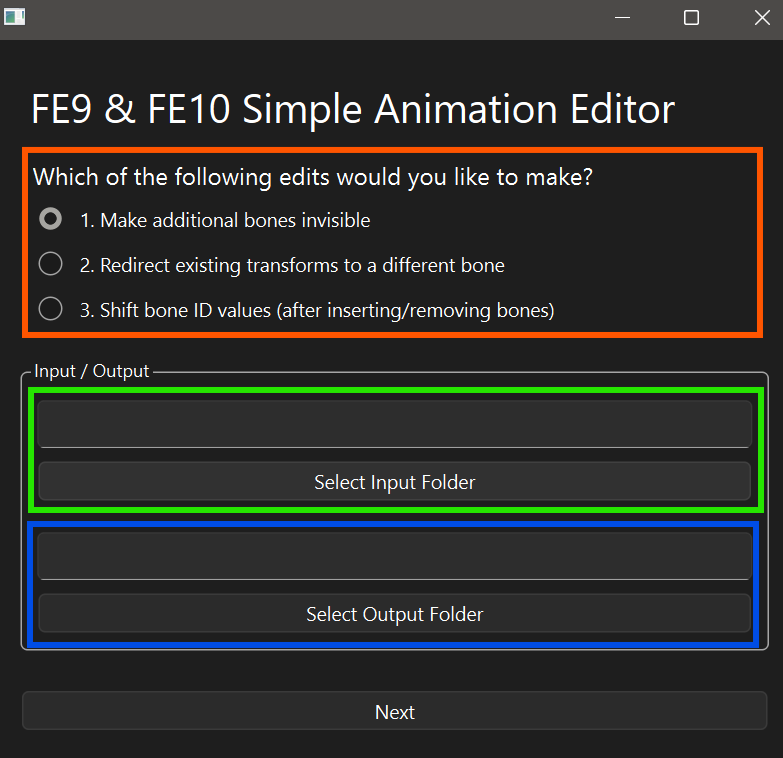
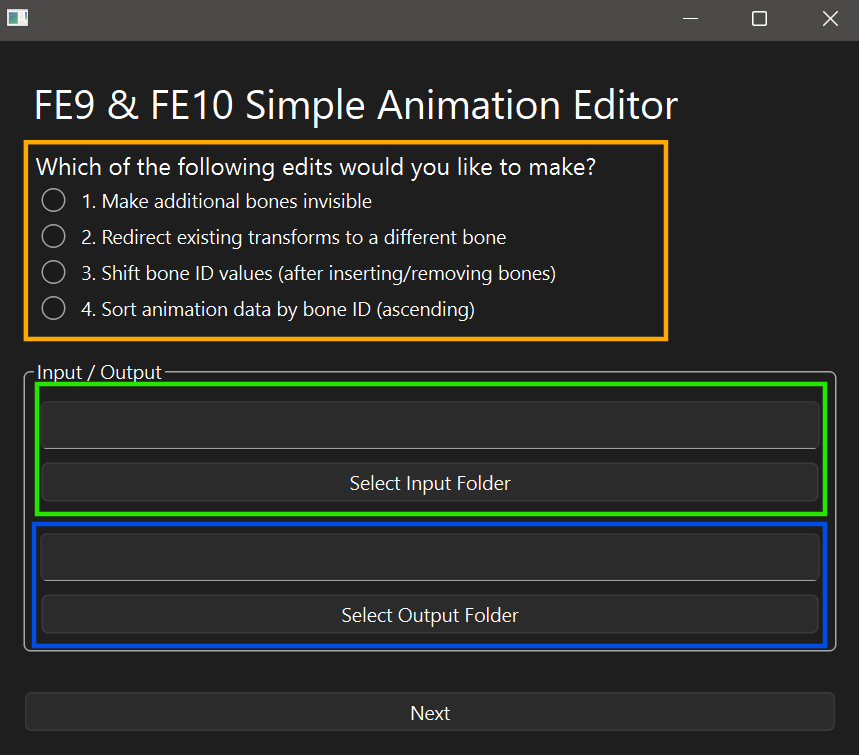
Add tooling and guides to support making weapons invisible through animations
- Add code to ga-simple-edits.py to allow for sorting animation data option.
- Add code to ga-simple-edits.py to handle conflicting bone transforms.
- Add guide for making weapons invisible using animation transforms and supporting images.
- Add .test/ folder to .gitignore

diff --git a/tools/animation/ga_simple_edits/ga_simple_edits.py b/tools/animation/ga_simple_edits/ga_simple_edits.py
@@ -68,7 +68,7 @@ class MainWindow(QMainWindow):
         self.button_3_run.clicked.connect(lambda: run_3_shift(self))
 
         # Radio buttons
-        self.radio_4.toggled.connect(lambda: select_4(self))
+        self.radio_4.toggled.connect(lambda: toggle_4(self))
 
 
 def goto_next(self):
@@ -160,8 +160,8 @@ def goto_0(self):
     clean_pack(self)
 
 
-def select_4(self):
-    print("Running select_4(self) ...")
+def toggle_4(self):
+    print("Running toggle_4(self) ...")
     if self.radio_4.isChecked():
         self.lineEdit_0_output.setEnabled(False)
         self.button_0_output.setEnabled(False)
@@ -169,7 +169,7 @@ def select_4(self):
         self.button_0_output.setText(
             "Output will overwrite input for this edit"
             )
-        self.button_0_next.setText("Run Organize Edit")
+        self.button_0_next.setText("Run Sorting Edit")
         self.lineEdit_0_input.setToolTip(
             "Choose an input .ga file or a folder containing .ga files"
             )
@@ -518,9 +518,54 @@ def edit_invis(ga_file, data_dict: dict, misc_dict: dict, bone_ids: list):
             next_frame_start = bytes.fromhex(
                 hex(next_frame_start_int)[2:].zfill(8)
                 )
+    '''Modify Existing Data if Bone ID already in Table'''
+    table_data = data_dict['table_data']
+    bone_count = int(len(table_data)/16)
+    # print(f'bone_count: {bone_count}')
+    # bone_table_ptr = struct.unpack_from('>I', data, 0x20)[0]
+    # channel_data_ptr = struct.unpack_from('>I', data, 0x24)[0]
+    # fcurve_data_ptr = struct.unpack_from('>I', data, 0x2C)[0]
+
+    # --- Parse bone table ---
+    row_data = []
+    table_bones = []
+    for row in range(bone_count):
+        offset = row*16
+        data = list(struct.unpack_from('>IIII', table_data, offset))
+        bone_id, channel_mask, channel_start, channel_count = data
+        row_data.append(data)
+        table_bones.append(bone_id)
+        # print(f'data: {data}')
+
+    # for bone in bone_ids:
+    #     bone = int(bone, 16)
+    #     if bone in table_bones:
+    #         row = table_bones.index(bone)
+    #         row_data[row][0] = 255
+    #         print(f'bone ID {bone} in table at row {row}')
+    #         print(f'row_data[{row}]: {row_data[row]}')
+
+    table_data = bytearray(len(table_data))
+    for row, data in enumerate(row_data):
+        offset = row*16
+        bone_id, channel_mask, channel_start, channel_count = data
+        struct.pack_into('>IIII',
+                         table_data,
+                         offset,
+                         bone_id,
+                         channel_mask,
+                         channel_start,
+                         channel_count
+                         )
+
+    # for data in row_data:
+    #     for value in data:
+    #         table_data.append(value)
+    # table_data = bytearray(table_data)
+    print(f'table_data_size: {len(table_data+invis_table_bytes)} bytes')
 
     '''Update Pointers & File Info'''
-    table_data = data_dict['table_data']
+    # table_data = data_dict['table_data']
     # unused_table_data = data_dict['unused_table_data']
     meta_data = data_dict['meta_data']
     frame_data = data_dict['frame_data']
@@ -551,6 +596,7 @@ def edit_invis(ga_file, data_dict: dict, misc_dict: dict, bone_ids: list):
     file_info[44:48] = frame_ptr
 
     data_dict['file_info'] = file_info
+    data_dict['table_data'] = table_data
     data_dict['invis_table_bytes'] = invis_table_bytes
     data_dict['invis_meta_bytes'] = invis_meta_bytes
     data_dict['invis_frame_bytes'] = invis_frame_bytes
@@ -1049,11 +1095,14 @@ def clean_pack(self):
     input_dir, output_dir, input_pack, output_pack, input_file = list(
         directory_dict.values()
         )
-
-    if not any(input_pack.iterdir()):
+    if input_pack.exists() and not any(input_pack.iterdir()):
         input_pack.rmdir()
-    if not any(output_pack.iterdir()):
+    if output_pack.exists() and not any(output_pack.iterdir()):
         output_pack.rmdir()
+    # if not any(input_pack.iterdir()):
+    #     input_pack.rmdir()
+    # if not any(output_pack.iterdir()):
+    #     output_pack.rmdir()
 
 
 def show_help():
@@ -1062,6 +1111,7 @@ def show_help():
     print("\t1. Make additional bones invisible.")
     print("\t2. Replace the bone in an existing transformation")
     print("\t3. Fix bone IDs after adding/deleting skeleton bones.")
+    print("\t4. Sort animation data by ascending bone ID.")
     print()
 
 

diff --git a/docs/animation-weapon-visibility-edits.md b/docs/animation-weapon-visibility-edits.md
@@ -7,8 +7,8 @@ Basic animation (in)visibility editing using hex editing, Blender, or Tellius Fo
 
 <p>
 <b>Author:</b> Jade (ltra043)<br>
-<b>Date:</b> 2026-06-05<br>
-<b>Version:</b> <code>Tellius Forge v0.1.0</code><br>
+<b>Date:</b> 2026-06-12<br>
+<b>Version:</b> <code>Tellius Forge v0.2.0</code><br>
 </p>
 
 
@@ -29,7 +29,7 @@ Basic animation (in)visibility editing using hex editing, Blender, or Tellius Fo
 <summary>Resources & Requirements</summary>
 
 1. [Tellius Forge](https://github.com/ltra043/tellius-forge/releases/latest) (Blender Addon & Toolkit)
-   - Non-Windows users may need to download and use the source code and assets at [ga-simple-edits/](../tools/animation/ga-simple-edits/)
+   - Non-Windows users may need to download and use the source code and assets at [ga_simple_edits/](../tools/animation/ga_simple_edits/)
 2. [Lumina](https://github.com/thane98/lumina) by thane98
 3. [ImHex](https://imhex.werwolv.net/) or any hex editor
    - Only needed if you choose to hex edit animations
@@ -38,7 +38,7 @@ Basic animation (in)visibility editing using hex editing, Blender, or Tellius Fo
 
 Optional / Recommended:
 1. Programmer Calculator or any hex calculator
-2. [Skeleton Analyzer](../tools/skeleton/g-skeleton-analyzer/g-skeleton-analyzer.py): Summarizes skeleton data, including provision of a table of bone IDs and bone names.
+2. [Skeleton Analyzer](../tools/skeleton/g-skeleton-analyzer/g_skeleton_analyzer.py): Summarizes skeleton data, including provision of a table of bone IDs and bone names.
 3. [Body & Skeleton Workflow](./body-skeleton-workflow.md)
 3. [Youtube Tutorial Playlist](https://youtube.com/playlist?list=PL650N9tNdfYazuxS5b63BzaUKxZLErT0e)
 4. [Tellius Animation File Format](../research/animation/tellius-animation-file-format.md)
@@ -67,7 +67,7 @@ This includes:
 
 ### About Scale Transforms
 
-Tellius animations do not contain a dedicated visibility track. Weapon visibility is controlled by bone scale. Setting a weapon bone's scale to 0 makes the associated mesh invisible; setting scale back to 1 restores normal visibility (and size).
+Tellius animations do not always contain a dedicated visibility track. Instead, visibility is often controlled by bone scale. Setting a bone's scale to 0 makes the associated mesh invisible; setting scale back to 1 restores normal visibility (and size).
 
 Although this guide focuses on weapon visibility, the same techniques can be used to add or modify scale animation data for any bone.
 
@@ -144,8 +144,8 @@ All mentioned downloads and reference materials are linked in [Resources & Requi
 ### 2.1 Download & Install
 
 1. Download the *latest release of Tellius Forge*.
-   - Non-Windows users may need to download the source code and assets at `tools/animation/ga-simple-edits/`
-   - `ga-simple-edits.exe` and `ga-simple-edits.py` are considered equivalent programs. Swap out mention of the `.exe` for `.py` in instructions if using the script. 
+   - Non-Windows users may need to download the source code and assets at `tools/animation/ga_simple_edits/`
+   - `ga-simple-edits.exe` and `ga_simple_edits.py` are considered equivalent programs. Swap out mention of the `.exe` for `.py` in instructions if using the script. 
 2. Extract all from `tellius-forge-toolkit.7z`
 3. **IMPORTANT!** The app `ga-simple-edits.exe` and the folder `assets/` must be kept in the same directory. Do not rename `assets/` or any files inside. 
 4. Install the Blender Addon `tellius-forge.py`. See the *Getting Started* guide for detailed installation instructions.
@@ -167,24 +167,27 @@ All mentioned downloads and reference materials are linked in [Resources & Requi
 </p>
 
 1. Run `ga-simple-edits.exe`.
-2. Input the path to the folder holding animations you want to modify. The app will edit all animations nested within this folder.
+2. **Select from the Edit Options.** To make a bone invisible, choose **option 1**.
+3. **Provide an input folder path.** Input the path to the folder holding animations you want to modify. The app will edit all animations nested within this folder.
    - Remember that for skeletons modified with "Blender Hierarchy" bone order, you should have already modified animations to account for shifted bone IDs. These **updated animations should be your input** for this edit.
-3. Select an output folder path. 
+4. **Provide an output folder path.** 
    - I recommend **choosing a separate output folder**, unique from the input folder. This leaves your original animations intact in case anything goes wrong.
    - Choosing the same input and output path will overwrite files (if standard animation names are used).
-4. Press **Next**.
+5. Press **Next**.
 
 ### 2.3 Provide Invisibility Edit Info
 
 <p align="center" style="font-size: 14px;">
   <img src="../images/animation/ga-simple-edit-page-1-invis.png" alt="Image 2: Page 1 ('Invis') of ga-simple-edits UI. 
-  Red (top): Bone IDs Textbox. 
+  Green (top): Important note about next steps (sorting data).
+  Red: Bone IDs Textbox. 
   Blue (center): Confirm button. 
   Yellow (bottom): Status Text. " width=400 style="border: 2px solid white;">
   <br>
   <em><b>
   Image 2: Page 1 ("Invis") of ga-simple-edits UI</b><br>
-  Red (top): Bone IDs Textbox<br>
+  Green (top): Important note about next steps (sorting data)<br>
+  Red: Bone IDs Textbox<br>
   Blue (center): Confirm button<br>
   Yellow (bottom): Status Text 
   </em>
@@ -237,8 +240,8 @@ Image 3: Animation Workspace</b><br>
 </em>
 </p>
 
-1. The top horizontal bar should list available workspaces such as `Layout`, `Shading`, and `Animations`. 
-2. Click on `Animations` to switch to that workspace. By default, you should have 5 areas open. 
+1. The top horizontal bar should list available workspaces such as `Layout`, `Shading`, and `Animation`. 
+2. Click on `Animation` to switch to that workspace. By default, you should have 5 areas open. 
 3. Open the editors listed in the **Image 3** caption and adjust the area sizes to your liking.
   
 ### 3.3 Setup Playback Controls
@@ -302,7 +305,7 @@ Yellow Arrow (bottom): Toggle Playback Controls
    1. Deleting existing scale channels prevents original animation data from overriding the visibility state you are trying to establish.
    2. If you are NOT making the bone invisible, do not delete these channels. Use your judgement on which keyframes you want to keep.
 5. Hover your mouse in the **3D Viewport**.
-6. Press **S** and **0** to **set Scale X, Y, and Z to 0**.
+6. Press **S**, **0**, and **Enter** to **set Scale X, Y, and Z to 0**.
    1. You can also change scale in **Bone Properties** in the **Transform** panel.
    2. To change a bone from invisible (scale=0) to **standard visible**, set the **Scale XYZ = 1** using the **Transform** panel. 
 7. Still hovering in the 3D Viewport, press **I** to insert a keyframe at the current frame (0) for Scale XYZ channels.
@@ -381,52 +384,85 @@ This guide does not cover the hex data format in depth. See *Tellius Animation F
 
 
 ### 4.2 Channel Data Edits
-1. Find the pointer at address `0x2C`. Add `0x10 * num_added_bones` to this value This should take you to the **start of F-Curve Data**.
-2. For every additional bone you want to make invisible, **insert `0x24` bytes** before the start of F-Curve Data (i.e., at the end of Channel Data).
-3. Bookmark or note the new start of **F-Curve Data**.
-4. Update the pointer at `0x2C` to the new start address of **F-Curve Data**.
+1. Find the pointer at address `0x2C`. Add `0x10 * num_added_bones` to this value.
+2. Follow the updated pointer. It should take you to the **start of F-Curve Data**.
+3. For every additional bone you want to make invisible, **insert `0x24` bytes** before the start of F-Curve Data (i.e., at the end of Channel Data).
+4. Bookmark or note the new start of **F-Curve Data**.
+5. Update the pointer at `0x2C` to the new start address of **F-Curve Data**.
 
 **Update New Channel Data Entries**
 1. Copy and paste the following data over every inserted 0x24 bytes.
 ```
-00 00 0F 00 / 00 00 00 01 / EE EE EE E0
-00 01 0F 00 / 00 00 00 01 / EE EE EE E1
-00 02 0F 00 / 00 00 00 01 / EE EE EE E2
+00 00 0F 00  00 00 00 01  00 00 EE E0
+00 01 0F 00  00 00 00 01  00 00 EE E1
+00 02 0F 00  00 00 00 01  00 00 EE E2
 ```
 2. Find last entry's frame-related data.
    1. Find the last 4 bytes before the added data. This is the `last_frame_index`.
    2. Find the 2 bytes before `last_frame_index`. These 2 bytes are `last_frame_count`.
    3. Add together `last_frame_index` and `last_frame_count` to get the `next_frame_index`.
 3. Update the last 4 bytes of each added `0x0C` byte entry.
-   1. Replace `EE EE EE E0` with `next_frame_index`.
-   2. Replace `EE EE EE E1` with `next_frame_index + 0x01`
-   3. Replace `EE EE EE E2` with `next_frame_index + 0x02`
+   1. Replace `00 00 EE E0` with `next_frame_index`.
+   2. Replace `00 00 EE E1` with `next_frame_index + 0x01`
+   3. Replace `00 00 EE E2` with `next_frame_index + 0x02`
 
 ### 4.3 F-Curve Data Edits
 1. Find the end of F-Curve Data.
-   1. Check the first 4 bytes of the file. This is the **header pointer**. If 0, F-Curve Data is the last section of the file.  
+   1. Check the first 4 bytes of the file. This is the **header pointer**. 
+   2. If the **header pointer** value is 0, F-Curve Data is the last section of the file. Go to the end of F-Curve Data at the end of the file.
+   3. If **header pointer** is non-zero, the value is a big-endian pointer.
+   4. To update the pointer value,  add `(0x10 + 0x24) * num_added_bones` to this value. 
 
    *For FE9 Files:*
-   1. If **header pointer** is non-zero, the value is a big-endian pointer. 
-   2. To update the pointer value,  add `(0x10 + 0x24) * num_added_bones` to this value. 
-   3. This pointer should now take you to 1 byte after the end of F-Curve Data.  
+   1. Follow the pointer. It should now take you to 1 byte after the end of F-Curve Data.  
    
    *For FE10 Files:*
-   1. If **header pointer** is non-zero, it is a big-endian pointer.
-   2. To update the pointer value,  add `(0x10 + 0x24) * num_added_bones` to this value.
-   3. Follow the updated pointer.
-   4. If the 4-byte **header pointer target** value is 0x00, the **next 4 bytes** is a pointer called **footer pointer 1**.
-   5. If the 4-byte **header pointer target** value is 0x05, the **last 4 bytes** is a pointer called **footer pointer 1**.
+   1. Follow the updated pointer. This takes you to the **header pointer target**.
+   2. If the 4-byte **header pointer target** value is 0x00, the **next 4 bytes** is a pointer called **footer pointer 1**.
+   3. If the 4-byte **header pointer target** value is 0x05, the **last 4 bytes** is a pointer called **footer pointer 1**.
    4. Follow **footer pointer 1** as a big-endian pointer. This takes you to 1 byte after the end of F-Curve Data. 
-3. For every new invisible bone, insert `0x0C` bytes after the last byte of F-Curve Data.
-4. Leave all added bytes as `0x00`.
+2. For every new invisible bone, insert `0x0C` bytes after the last byte of F-Curve Data.
+3. Leave all added bytes as `0x00`.
 
-*Update Footer Pointers*
+### 4.4 Update Header and Footer Pointers
 1. Add `(0x10 + 0x24 + 0x0C) * num_added_bones` to all footer pointer values.
-2. If you need help identifying all footer pointers, read about the complex footer data structure in the *Skeleton Format Analysis* research document, available in [Resources & Requirements](#reader-information).
+   1. If you need help identifying all footer pointers, read about the complex footer data structure in the *Skeleton Format Analysis* research document, available in [Resources & Requirements](#reader-information).
+2. Add `0x0C * num_added_bones` to the header pointer.
 
 ---
-## 5. Testing Modified Animations
+
+## 5. Sort Animation Data
+
+### 5-1. Normal Sorting Patterns
+If you used the Tellius Forge Toolkit or Hex Edit options to make bone(s) invisible, your added data is likely out-of-order. 
+
+Animation data is typically sorted by:
+| Data Type | Sorted by (ascending) |
+|--------------|----------------------|
+| Bone Table rows | Bone ID |
+|Channel Data entries | Bone ID, Channel Type |
+| F-Curve Data keyframes | Bone ID, Channel Type, Frame |
+
+*When multiple sorted options are listed, they are listed in order. Data is sorted into large groupings and sorted by the next filter within those groupings* 
+
+### 5-2. Sorting Modified Animation Data
+While animations *might* function when out-of-order, they are more likely to display correctly when sorted. It is **best practice to sort animation data** before using it in-game, to reduce instability.
+
+Additionally, if you tried to make a bone invisible which is already transformed in the transform data, **you MUST sort data to remove any clashing transform instructions**.
+
+#### Sort Using Tellius Forge Toolkit
+Use the `ga-simple-animation-edits.exe` or `ga_simple_edits.py` to sort animation data quickly. 
+
+I do not recommend hex editing to sort the data, as it is easy to introduce errors.
+
+1. Run `ga-simple-edits.exe`.
+2. **Select from the Edit Options.** To sort animation data, choose **option 4**.
+3. **Provide an input folder path.** Input the path to the animation or folder holding animations you want to sort. The app will edit all animations nested within a folder.
+   - You do not need to provide an output path. This edit option overwrites files in place.
+4. Press the "Run Sorting Edit" button.
+
+---
+## 6. Testing Modified Animations
 
 1. Import animations onto your *animation-prepared model* in Blender to test they function as expected.
    1. *Animation-prepared* refers to instructions in [3.1 Import Model & Animations](#31-import-model--animations) These steps are necessary before loading animations onto any armature.
